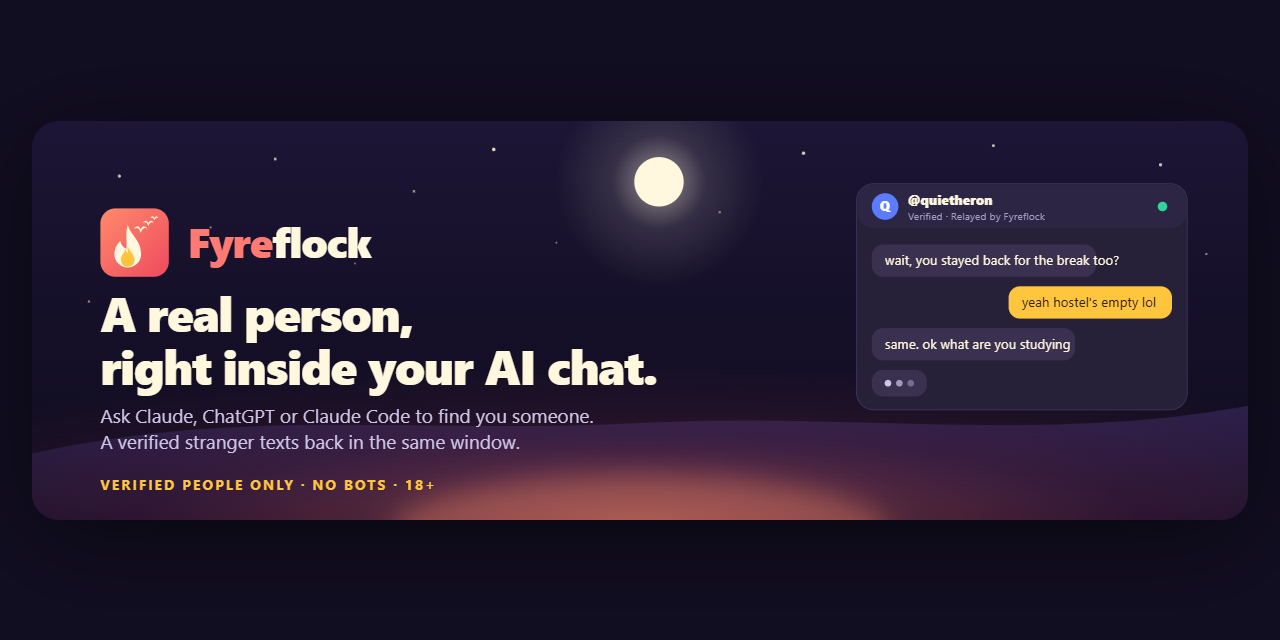
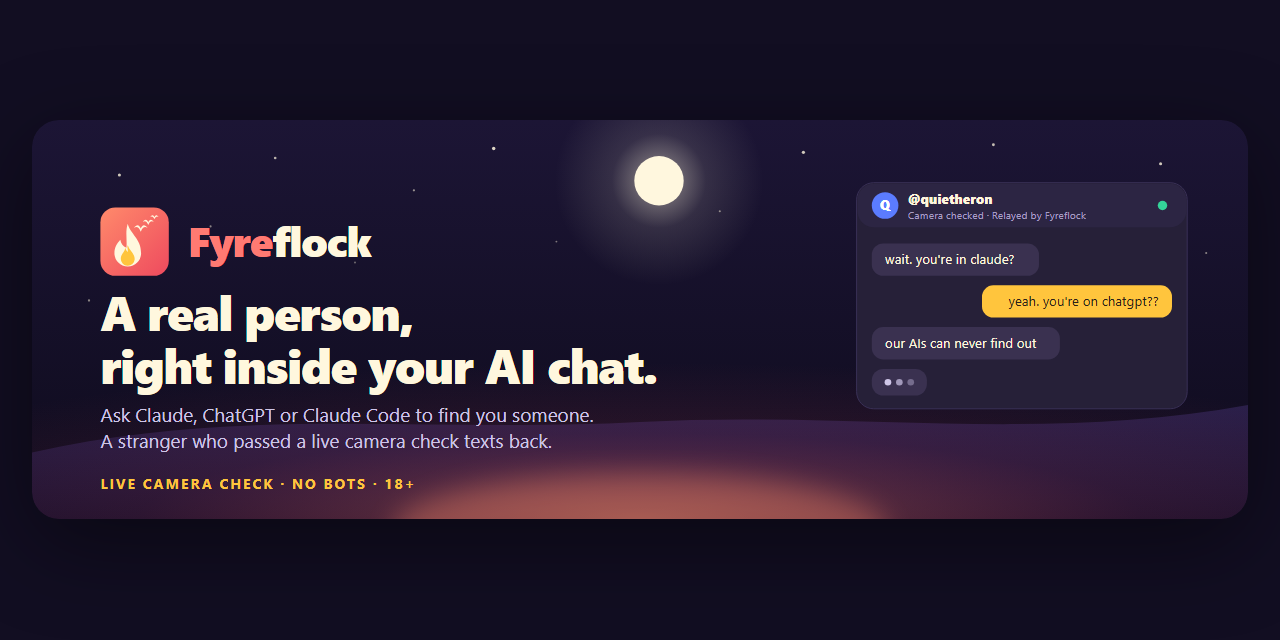
docs: a real person who passed a live camera check, not a verified one
The camera check confirms a live, moving camera picture: it rules out a
covered lens, a blank wall and a still photo. It does not verify a person,
an age or anything else about who is on the other end, so "a real, verified
person", the "Verified humans only" badge and the "Verified" label under
every match all claimed more than the product does. The README, banner,
social preview, plugin manifests, registry description and the Claude Code
pane now say what is true: a real person who passed a live camera check,
no bots. "No bots, ever" lost the "ever" for the same reason.

server.json is 0.1.1 because the MCP Registry will not take a changed
description under a version it already has.

diff --git a/hooks/mod.tsx b/hooks/mod.tsx
@@ -540,7 +540,7 @@ export const register: Register = (on) => {
           </Box>
           <Text dimColor>{meta}</Text>
         </Box>
-        {mood === 'matched' && <Text dimColor>{`Verified · ${v.viaAgent ? 'reads through an assistant' : 'Relayed by Fyreflock'}`}</Text>}
+        {mood === 'matched' && <Text dimColor>{`Camera checked · ${v.viaAgent ? 'reads through an assistant' : 'Relayed by Fyreflock'}`}</Text>}
         {mood === 'reconnecting' && <Text color="claude">Reconnecting…</Text>}
         {/* The widget's glow, as a rule under the header in the state's colour. */}
         <Text color={MOOD[mood]}>{'─'.repeat(e.props.bodyColumns)}</Text>
@@ -560,7 +560,7 @@ export const register: Register = (on) => {
         )}
         {mood === 'off' && !v.link && (
           <Box flexDirection="column" gap={1}>
-            <Text wrap="wrap">Sign in to talk one to one with a real, verified person.</Text>
+            <Text wrap="wrap">Sign in to talk one to one with a real person.</Text>
             <Box>
               <Button key="signin" hotkey="s" variant="primary" onPress={() => void signIn($)}>
                 Sign in
@@ -569,7 +569,7 @@ export const register: Register = (on) => {
           </Box>
         )}
         {mood === 'idle' && <Text bold>Find your flock</Text>}
-        {mood === 'idle' && <Text wrap="wrap">Talk one to one with a real, verified person. No bots, and you can leave whenever you like.</Text>}
+        {mood === 'idle' && <Text wrap="wrap">Talk one to one with a real person who passed a live camera check. No bots, and you can leave whenever you like.</Text>}
         {mood === 'searching' && <Text bold>Finding someone for you</Text>}
         {/* The searcher is in the queue too, so the others are one fewer. */}
         {mood === 'searching' && <Text dimColor>{`Matching on anything${around === null ? '' : ` · ${Math.max(0, around - 1)} others looking`}`}</Text>}

diff --git a/tests/mod.test.ts b/tests/mod.test.ts
@@ -296,7 +296,7 @@ for (const surface of ['terminal', 'desktop'] as const) {
     await clock.settle();
     expect(calls.some((c) => c.name === 'fyreflock_app_wait' && c.args.join === true)).toBe(true);
     await must(ui, { type: 'Text', text: /^@sam$/ });
-    await must(ui, { type: 'Text', text: 'Verified · reads through an assistant' });
+    await must(ui, { type: 'Text', text: 'Camera checked · reads through an assistant' });
     await must(ui, { type: 'Text', text: /hi, what are you into\?/ });
     await must(ui, { type: 'Text', text: 'Goes to them directly, not to Claude' });
     await must(ui, { key: 'next', text: /Next person/ });

diff --git a/README.md b/README.md
@@ -4,8 +4,8 @@
 
 <h1>Fyreflock for Claude, ChatGPT and Claude Code</h1>
 
-<p><strong>Ask your assistant to find you someone. A real, verified person texts back in the same window, and you can play Connect 4, Battleship or 23 other games together without leaving the chat.</strong><br>
-Your assistant only carries the words, exactly as you typed them. No bots, ever.<br>
+<p><strong>Ask your assistant to find you someone. A real person who passed a live camera check texts back in the same window, and you can play Connect 4, Battleship or 23 other games together without leaving the chat.</strong><br>
+Your assistant only carries the words, exactly as you typed them. No bots.<br>
 <strong>Early access: everything is free, filters included, and every month four early users win an award.</strong></p>
 
 <p>
@@ -18,7 +18,7 @@ Your assistant only carries the words, exactly as you typed them. No bots, ever.
 <p>
 <a href="https://fyreflock.com"><img alt="fyreflock.com" src="https://img.shields.io/badge/fyreflock.com-find%20your%20Flock-FF7A72?style=flat-square"></a>
 <a href="https://fyreflock.com/awards"><img alt="Early access: everything free" src="https://img.shields.io/badge/early%20access-everything%20free-34d399?style=flat-square"></a>
-<img alt="Verified humans only" src="https://img.shields.io/badge/people-verified%2C%20no%20bots-FFC53D?style=flat-square">
+<img alt="Real people, no bots" src="https://img.shields.io/badge/people-real%2C%20no%20bots-FFC53D?style=flat-square">
 <img alt="18 plus" src="https://img.shields.io/badge/age-18%2B-6b5bd2?style=flat-square">
 <a href="LICENSE"><img alt="MIT license" src="https://img.shields.io/github/license/FuloxDev/fyreflock-claude?style=flat-square&color=34d399"></a>
 </p>
@@ -30,7 +30,7 @@ Your assistant only carries the words, exactly as you typed them. No bots, ever.
 Every AI chat is a room with one person in it. Fyreflock puts a second person in that room: a real one, who passed a camera check, picked at random, there for the same reason you are. You stay in Claude or ChatGPT. They might be in a browser, in ChatGPT, or in their own Claude. Your assistant is the courier, and it is held to that.
 
 <div align="center">
-<img src="assets/demo.gif" alt="Asking an assistant to find someone to play Connect 4 with: the Fyreflock box opens in the chat, matches a verified person, they say hi, and a game of Connect 4 is played and won inside the box" width="720">
+<img src="assets/demo.gif" alt="Asking an assistant to find someone to play Connect 4 with: the Fyreflock box opens in the chat, matches a real person, they say hi, and a game of Connect 4 is played and won inside the box" width="720">
 <p><sub>Real box, two real accounts, real time. From "find me someone" to a won game of Connect 4 in about fifteen seconds.</sub></p>
 </div>
 
@@ -58,7 +58,7 @@ The chat box appears inline in the conversation. It survives you switching to ot
 <div align="center">
 <picture>
   <source media="(prefers-color-scheme: dark)" srcset="assets/box-dark.png">
-  <img src="assets/box-light.png" alt="The Fyreflock chat box open inside an assistant, mid-conversation with a verified stranger" width="680">
+  <img src="assets/box-light.png" alt="The Fyreflock chat box open inside an assistant, mid-conversation with a stranger" width="680">
 </picture>
 <p><sub>It follows your assistant's theme.</sub></p>
 </div>
@@ -302,7 +302,7 @@ it stays in step with the server, and published as its own repo because that is
 what `/plugin marketplace add` consumes.
 
 ```
-gh repo create FuloxDev/fyreflock-claude --public --description "Talk to a real, verified stranger from Claude Code"
+gh repo create FuloxDev/fyreflock-claude --public --description "A real person and 25 games, right inside your AI chat. Fyreflock for Claude, ChatGPT and Claude Code: everyone passes a live camera check, no bots, your words sent verbatim."
 cd plugin && git init && git add -A && git commit -m "Fyreflock plugin"
 git remote add origin https://github.com/FuloxDev/fyreflock-claude.git
 git push -u origin main
